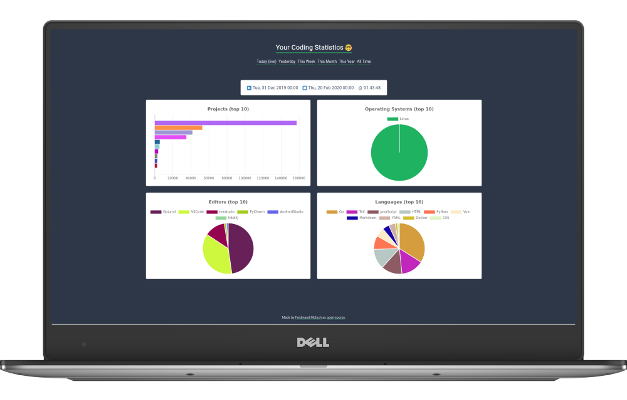
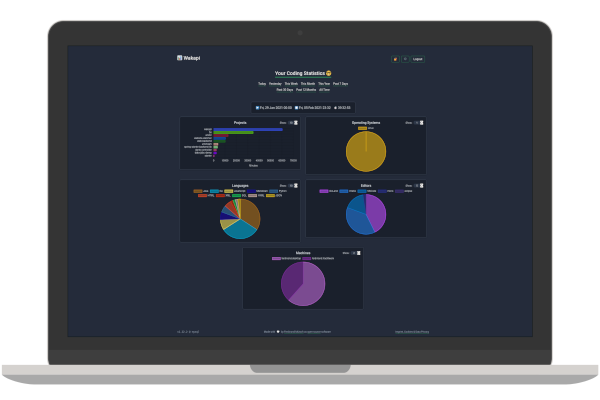
style: change color palette

diff --git a/static/assets/app.js b/static/assets/app.js
@@ -28,6 +28,9 @@ let charts = []
 let showTopN = []
 let resizeCount = 0
 
+Chart.defaults.global.defaultFontColor = "#E2E8F0"
+Chart.defaults.global.defaultColor = "#E2E8F0"
+
 String.prototype.toHHMMSS = function () {
     var sec_num = parseInt(this, 10)
     var hours = Math.floor(sec_num / 3600)
@@ -47,13 +50,12 @@ String.prototype.toHHMMSS = function () {
 }
 
 function draw(subselection) {
-    function getTooltipOptions(key, type) {
+    function getTooltipOptions(key) {
         return {
             mode: 'single',
             callbacks: {
                 label: (item) => {
-                    let idx = type === 'pie' ? item.index : item.datasetIndex
-                    let d = wakapiData[key][idx]
+                    let d = wakapiData[key][item.index]
                     return `${d.key}: ${d.total.toString().toHHMMSS()}`
                 },
                 title: () => 'Total Time'
@@ -73,18 +75,29 @@ function draw(subselection) {
         ? new Chart(projectsCanvas.getContext('2d'), {
             type: 'horizontalBar',
             data: {
-                datasets: wakapiData.projects
+                datasets: [{
+                    data: wakapiData.projects
+                        .slice(0, Math.min(showTopN[0], wakapiData.projects.length))
+                        .map(p => parseInt(p.total)),
+                    backgroundColor: wakapiData.projects.map(p => {
+                        const c = hexToRgb(getRandomColor(p.key))
+                        return `rgba(${c.r}, ${c.g}, ${c.b}, 0.6)`
+                    }),
+                    hoverBackgroundColor: wakapiData.projects.map(p => {
+                        const c = hexToRgb(getRandomColor(p.key))
+                        return `rgba(${c.r}, ${c.g}, ${c.b}, 0.8)`
+                    }),
+                    borderColor: wakapiData.projects.map(p => {
+                        const c = hexToRgb(getRandomColor(p.key))
+                        return `rgba(${c.r}, ${c.g}, ${c.b}, 1)`
+                    }),
+                    borderWidth: 2
+                }],
+                labels: wakapiData.projects
                     .slice(0, Math.min(showTopN[0], wakapiData.projects.length))
-                    .map(p => {
-                        return {
-                            label: p.key,
-                            data: [parseInt(p.total) / 60],
-                            backgroundColor: getRandomColor(p.key)
-                        }
-                    })
+                    .map(p => p.key)
             },
             options: {
-                tooltips: getTooltipOptions('projects', 'bar'),
                 legend: {
                     display: false
                 },
@@ -96,6 +109,7 @@ function draw(subselection) {
                         }
                     }]
                 },
+                tooltips: getTooltipOptions('projects'),
                 maintainAspectRatio: false,
                 onResize: onChartResize
             }
@@ -110,14 +124,25 @@ function draw(subselection) {
                     data: wakapiData.operatingSystems
                         .slice(0, Math.min(showTopN[1], wakapiData.operatingSystems.length))
                         .map(p => parseInt(p.total)),
-                    backgroundColor: wakapiData.operatingSystems.map(p => osColors[p.key.toLowerCase()] || getRandomColor(p.key))
+                    backgroundColor: wakapiData.operatingSystems.map(p => {
+                        const c = hexToRgb(osColors[p.key.toLowerCase()] || getRandomColor(p.key))
+                        return `rgba(${c.r}, ${c.g}, ${c.b}, 0.6)`
+                    }),
+                    hoverBackgroundColor: wakapiData.operatingSystems.map(p => {
+                        const c = hexToRgb(osColors[p.key.toLowerCase()] || getRandomColor(p.key))
+                        return `rgba(${c.r}, ${c.g}, ${c.b}, 0.8)`
+                    }),
+                    borderColor: wakapiData.operatingSystems.map(p => {
+                        const c = hexToRgb(osColors[p.key.toLowerCase()] || getRandomColor(p.key))
+                        return `rgba(${c.r}, ${c.g}, ${c.b}, 1)`
+                    }),
                 }],
                 labels: wakapiData.operatingSystems
                     .slice(0, Math.min(showTopN[1], wakapiData.operatingSystems.length))
                     .map(p => p.key)
             },
             options: {
-                tooltips: getTooltipOptions('operatingSystems', 'pie'),
+                tooltips: getTooltipOptions('operatingSystems'),
                 maintainAspectRatio: false,
                 onResize: onChartResize
             }
@@ -132,14 +157,25 @@ function draw(subselection) {
                     data: wakapiData.editors
                         .slice(0, Math.min(showTopN[2], wakapiData.editors.length))
                         .map(p => parseInt(p.total)),
-                    backgroundColor: wakapiData.editors.map(p => editorColors[p.key.toLowerCase()] || getRandomColor(p.key))
+                    backgroundColor: wakapiData.editors.map(p => {
+                        const c = hexToRgb(editorColors[p.key.toLowerCase()] || getRandomColor(p.key))
+                        return `rgba(${c.r}, ${c.g}, ${c.b}, 0.6)`
+                    }),
+                    hoverBackgroundColor: wakapiData.editors.map(p => {
+                        const c = hexToRgb(editorColors[p.key.toLowerCase()] || getRandomColor(p.key))
+                        return `rgba(${c.r}, ${c.g}, ${c.b}, 0.8)`
+                    }),
+                    borderColor: wakapiData.editors.map(p => {
+                        const c = hexToRgb(editorColors[p.key.toLowerCase()] || getRandomColor(p.key))
+                        return `rgba(${c.r}, ${c.g}, ${c.b}, 1)`
+                    }),
                 }],
                 labels: wakapiData.editors
                     .slice(0, Math.min(showTopN[2], wakapiData.editors.length))
                     .map(p => p.key)
             },
             options: {
-                tooltips: getTooltipOptions('editors', 'pie'),
+                tooltips: getTooltipOptions('editors'),
                 maintainAspectRatio: false,
                 onResize: onChartResize
             }
@@ -154,14 +190,25 @@ function draw(subselection) {
                     data: wakapiData.languages
                         .slice(0, Math.min(showTopN[3], wakapiData.languages.length))
                         .map(p => parseInt(p.total)),
-                    backgroundColor: wakapiData.languages.map(p => languageColors[p.key.toLowerCase()] || getRandomColor(p.key))
+                    backgroundColor: wakapiData.languages.map(p => {
+                        const c = hexToRgb(languageColors[p.key.toLowerCase()] || getRandomColor(p.key))
+                        return `rgba(${c.r}, ${c.g}, ${c.b}, 0.6)`
+                    }),
+                    hoverBackgroundColor: wakapiData.languages.map(p => {
+                        const c = hexToRgb(languageColors[p.key.toLowerCase()] || getRandomColor(p.key))
+                        return `rgba(${c.r}, ${c.g}, ${c.b}, 0.8)`
+                    }),
+                    borderColor: wakapiData.languages.map(p => {
+                        const c = hexToRgb(languageColors[p.key.toLowerCase()] || getRandomColor(p.key))
+                        return `rgba(${c.r}, ${c.g}, ${c.b}, 1)`
+                    }),
                 }],
                 labels: wakapiData.languages
                     .slice(0, Math.min(showTopN[3], wakapiData.languages.length))
                     .map(p => p.key)
             },
             options: {
-                tooltips: getTooltipOptions('languages', 'pie'),
+                tooltips: getTooltipOptions('languages'),
                 maintainAspectRatio: false,
                 onResize: onChartResize
             }
@@ -176,14 +223,25 @@ function draw(subselection) {
                     data: wakapiData.machines
                         .slice(0, Math.min(showTopN[4], wakapiData.machines.length))
                         .map(p => parseInt(p.total)),
-                    backgroundColor: wakapiData.machines.map(p => getRandomColor(p.key))
+                    backgroundColor: wakapiData.machines.map(p => {
+                        const c = hexToRgb(getRandomColor(p.key))
+                        return `rgba(${c.r}, ${c.g}, ${c.b}, 0.6)`
+                    }),
+                    hoverBackgroundColor: wakapiData.machines.map(p => {
+                        const c = hexToRgb(getRandomColor(p.key))
+                        return `rgba(${c.r}, ${c.g}, ${c.b}, 0.8)`
+                    }),
+                    borderColor: wakapiData.machines.map(p => {
+                        const c = hexToRgb(getRandomColor(p.key))
+                        return `rgba(${c.r}, ${c.g}, ${c.b}, 1)`
+                    }),
                 }],
                 labels: wakapiData.machines
                     .slice(0, Math.min(showTopN[4], wakapiData.machines.length))
                     .map(p => p.key)
             },
             options: {
-                tooltips: getTooltipOptions('machines', 'pie'),
+                tooltips: getTooltipOptions('machines'),
                 maintainAspectRatio: false,
                 onResize: onChartResize
             }
@@ -272,6 +330,20 @@ function getRandomColor(seed) {
         color += letters[Math.floor(Math.random() * 16)]
     }
     return color
+}
+
+// https://stackoverflow.com/a/5624139/3112139
+function hexToRgb(hex) {
+    var shorthandRegex = /^#?([a-f\d])([a-f\d])([a-f\d])$/i;
+    hex = hex.replace(shorthandRegex, function(m, r, g, b) {
+        return r + r + g + g + b + b;
+    });
+    var result = /^#?([a-f\d]{2})([a-f\d]{2})([a-f\d]{2})$/i.exec(hex);
+    return result ? {
+        r: parseInt(result[1], 16),
+        g: parseInt(result[2], 16),
+        b: parseInt(result[3], 16)
+    } : null;
 }
 
 function showApiKeyPopup(event) {

diff --git a/views/summary.tpl.html b/views/summary.tpl.html
@@ -3,7 +3,7 @@
 
 {{ template "head.tpl.html" . }}
 
-<body class="relative bg-gray-800 text-gray-700 p-4 pt-10 flex flex-col min-h-screen max-w-screen-xl mx-auto justify-center">
+<body class="relative bg-gray-850 text-gray-700 p-4 pt-10 flex flex-col min-h-screen max-w-screen-xl mx-auto justify-center">
 
 {{ template "header.tpl.html" . }}
 
@@ -56,25 +56,25 @@
 <main class="mt-10 flex-grow">
     <div class="flex justify-center">
         <div class="p-1">
-            <div class="flex justify-center p-4 bg-white rounded shadow">
+            <div class="flex justify-center p-4 bg-gray-900 border border-gray-700 text-gray-300 rounded-md shadow">
                 <p class="mx-2"><strong>▶</strong> <span title="Start Time">{{ .FromTime.T | date }}</span></p>
-                <p class="mx-2"><strong>⏹</strong> <span title="End Time">{{ .ToTime.T | date }}</span></p>
-                <p class="mx-2"><strong>⏱</strong> <span id="total-span" title="Total Hours"></span></p>
+                <p class="mx-2"><strong>⏹</strong> <span title="End Time">{{ .ToTime.T | date }}</span></p>
+                <p class="mx-2"><strong>⏱</strong> <span id="total-span" title="Total Hours"></span></p>
             </div>
         </div>
     </div>
     <div class="flex flex-wrap justify-center">
         <div class="w-full lg:w-1/2 p-1">
-            <div class="p-4 pb-10 bg-white rounded shadow m-2 flex flex-col" id="project-container" style="height: 300px">
+            <div class="p-4 pb-10 bg-gray-900 border border-gray-700 text-gray-300 rounded-md shadow m-2 flex flex-col" id="project-container" style="height: 300px">
                 <div class="flex justify-between">
                     <div class="w-1/4 flex-1"></div>
                     <span class="font-semibold w-1/2 text-center flex-1">Projects</span>
                     <div class="flex justify-end flex-1 text-xs items-center">
                         <label for="project-top-picker" class="mr-1">Show:&nbsp;</label>
-                        <input type="number" min="1" id="project-top-picker" data-entity="0" class="w-1/4 top-picker bg-gray-200 rounded-md text-center" value="10">
+                        <input type="number" min="1" id="project-top-picker" data-entity="0" class="w-1/4 top-picker bg-gray-800 rounded-md text-center" value="10">
                     </div>
                 </div>
-                <canvas id="chart-projects"></canvas>
+                <canvas id="chart-projects" class="mt-2"></canvas>
                 <div class="hidden placeholder-container flex items-center justify-center h-full flex-col">
                     <img src="assets/images/no_data.svg" class="w-20" alt="No data"/>
                     <span class="text-sm mt-4">No data available ...</span>
@@ -82,13 +82,13 @@
             </div>
         </div>
         <div class="w-full lg:w-1/2 p-1">
-            <div class="p-4 pb-10 bg-white rounded shadow m-2 flex flex-col" id="os-container" style="height: 300px">
+            <div class="p-4 pb-10 bg-gray-900 border border-gray-700 text-gray-300 rounded-md shadow m-2 flex flex-col" id="os-container" style="height: 300px">
                 <div class="flex justify-between">
                     <div class="w-1/4 flex-1"></div>
                     <span class="font-semibold w-1/2 text-center flex-1">Operating Systems</span>
                     <div class="flex justify-end flex-1 text-xs items-center">
                         <label for="os-top-picker" class="mr-1">Show:&nbsp;</label>
-                        <input type="number" min="1" id="os-top-picker" data-entity="1" class="w-1/4 top-picker bg-gray-200 rounded-md text-center" value="10">
+                        <input type="number" min="1" id="os-top-picker" data-entity="1" class="w-1/4 top-picker bg-gray-800 rounded-md text-center" value="10">
                     </div>
                 </div>
                 <canvas id="chart-os"></canvas>
@@ -99,13 +99,13 @@
             </div>
         </div>
         <div class="w-full lg:w-1/2 p-1">
-            <div class="p-4 pb-10 bg-white rounded shadow m-2 flex flex-col relative" id="language-container" style="height: 300px">
+            <div class="p-4 pb-10 bg-gray-900 border border-gray-700 text-gray-300 rounded-md shadow m-2 flex flex-col relative" id="language-container" style="height: 300px">
                 <div class="flex justify-between">
                     <div class="w-1/4 flex-1"></div>
                     <span class="font-semibold w-1/2 text-center flex-1">Languages</span>
                     <div class="flex justify-end flex-1 text-xs items-center">
                         <label for="language-top-picker" class="mr-1">Show:&nbsp;</label>
-                        <input type="number" min="1" id="language-top-picker" data-entity="3" class="w-1/4 top-picker bg-gray-200 rounded-md text-center" value="10">
+                        <input type="number" min="1" id="language-top-picker" data-entity="3" class="w-1/4 top-picker bg-gray-800 rounded-md text-center" value="10">
                     </div>
                 </div>
                 <canvas id="chart-language"></canvas>
@@ -116,13 +116,13 @@
             </div>
         </div>
         <div class="w-full lg:w-1/2 p-1">
-            <div class="p-4 pb-10 bg-white rounded shadow m-2 flex flex-col" id="editor-container" style="height: 300px">
+            <div class="p-4 pb-10 bg-gray-900 border border-gray-700 text-gray-300 rounded-md shadow m-2 flex flex-col" id="editor-container" style="height: 300px">
                 <div class="flex justify-between">
                     <div class="w-1/4 flex-1"></div>
                     <span class="font-semibold w-1/2 text-center flex-1">Editors</span>
                     <div class="flex justify-end flex-1 text-xs items-center">
                         <label for="editor-top-picker" class="mr-1">Show:&nbsp;</label>
-                        <input type="number" min="1" id="editor-top-picker" data-entity="2" class="w-1/4 top-picker bg-gray-200 rounded-md text-center" value="10">
+                        <input type="number" min="1" id="editor-top-picker" data-entity="2" class="w-1/4 top-picker bg-gray-800 rounded-md text-center" value="10">
                     </div>
                 </div>
                 <canvas id="chart-editor"></canvas>
@@ -133,13 +133,13 @@
             </div>
         </div>
         <div class="w-full lg:w-1/2 p-1">
-            <div class="p-4 pb-10 bg-white rounded shadow m-2 flex flex-col" id="machine-container" style="height: 300px">
+            <div class="p-4 pb-10 bg-gray-900 border border-gray-700 text-gray-300 rounded-md shadow m-2 flex flex-col" id="machine-container" style="height: 300px">
                 <div class="flex justify-between">
                     <div class="w-1/4 flex-1"></div>
                     <span class="font-semibold w-1/2 text-center flex-1">Machines</span>
                     <div class="flex justify-end flex-1 text-xs items-center">
                         <label for="machine-top-picker" class="mr-1">Show:&nbsp;</label>
-                        <input type="number" min="1" id="machine-top-picker" data-entity="4" class="w-1/4 top-picker bg-gray-200 rounded-md text-center" value="10">
+                        <input type="number" min="1" id="machine-top-picker" data-entity="4" class="w-1/4 top-picker bg-gray-800 rounded-md text-center" value="10">
                     </div>
                 </div>
                 <canvas id="chart-machine"></canvas>

diff --git a/views/index.tpl.html b/views/index.tpl.html
@@ -3,7 +3,7 @@
 
 {{ template "head.tpl.html" . }}
 
-<body class="relative bg-gray-800 text-gray-700 p-4 pt-10 flex flex-col min-h-screen max-w-screen-lg mx-auto justify-center">
+<body class="relative bg-gray-850 text-gray-700 p-4 pt-10 flex flex-col min-h-screen max-w-screen-lg mx-auto justify-center">
 
 {{ template "header.tpl.html" . }}
 

diff --git a/views/settings.tpl.html b/views/settings.tpl.html
@@ -3,7 +3,7 @@
 
 {{ template "head.tpl.html" . }}
 
-<body class="bg-gray-800 text-gray-700 p-4 pt-10 flex flex-col min-h-screen max-w-screen-xl mx-auto justify-center">
+<body class="bg-gray-850 text-gray-700 p-4 pt-10 flex flex-col min-h-screen max-w-screen-xl mx-auto justify-center">
 
 <style>
     .inline-bullet-list li a {

diff --git a/views/imprint.tpl.html b/views/imprint.tpl.html
@@ -3,7 +3,7 @@
 
 {{ template "head.tpl.html" . }}
 
-<body class="bg-gray-800 text-gray-700 p-4 pt-10 flex flex-col min-h-screen max-w-screen-xl mx-auto justify-center">
+<body class="bg-gray-850 text-gray-700 p-4 pt-10 flex flex-col min-h-screen max-w-screen-xl mx-auto justify-center">
 
 {{ template "header.tpl.html" . }}
 

diff --git a/views/login.tpl.html b/views/login.tpl.html
@@ -3,7 +3,7 @@
 
 {{ template "head.tpl.html" . }}
 
-<body class="bg-gray-800 text-gray-700 p-4 pt-10 flex flex-col min-h-screen max-w-screen-lg mx-auto justify-center">
+<body class="bg-gray-850 text-gray-700 p-4 pt-10 flex flex-col min-h-screen max-w-screen-lg mx-auto justify-center">
 
 {{ template "header.tpl.html" . }}
 

diff --git a/static/assets/app.css b/static/assets/app.css
@@ -1,3 +1,7 @@
 body {
     font-family: 'Roboto', 'Helvetica Neue', 'Helvetica', 'Arial', sans-serif;
 }
+
+.bg-gray-850 {
+    background-color: #242b3a;
+}

diff --git a/README.md b/README.md
@@ -31,7 +31,7 @@
 </div>
 
 <p align="center">
-  <img src="https://anchr.io/i/bxQ69.png" width="500px">
+  <img src="static/assets/images/screenshot.png" width="500px">
 </p>
 
 ## Table of Contents
